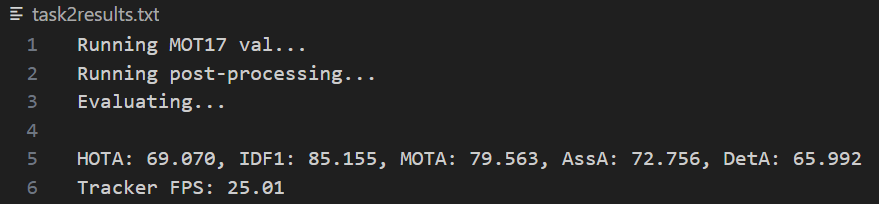
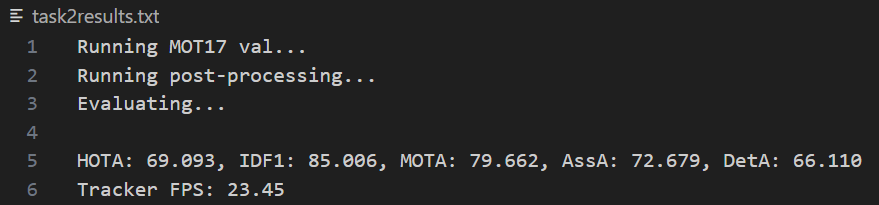
Update: Updated best Task 2 HOTA Results

diff --git a/README.md b/README.md
@@ -85,7 +85,7 @@ All scripts are run from the `Multi-Object-Tracking` directory. Ensure a GPU is 
 
 - Achieved highest HOTA of **69.093**.
 
-![Result 1](assets/Task2_Best_Results.png)
+![Result 1](assets/Task2_Results.png)
 
 ### Task 3 – RF-DETR detector integration:
 
